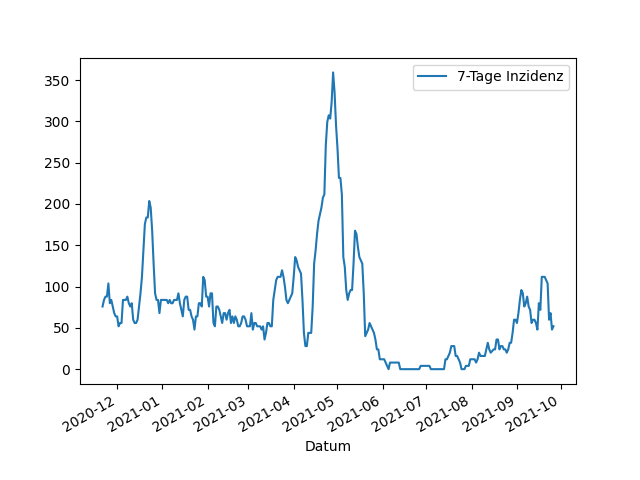
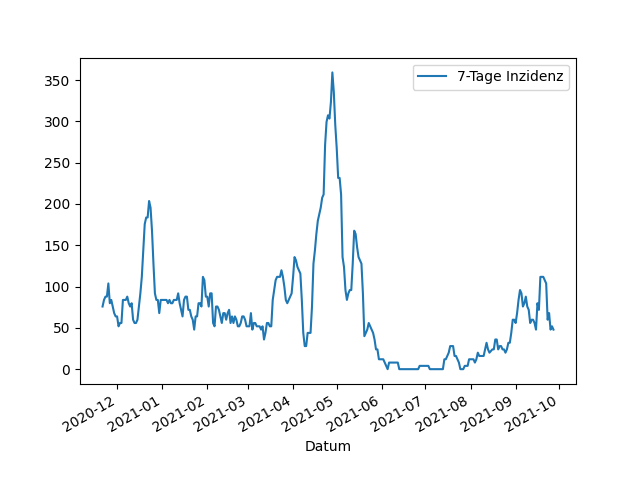
Update images

diff --git a/_includes/aktuelle_inzidenz.md b/_includes/aktuelle_inzidenz.md
@@ -1,1 +1,1 @@
-51,9
+47,9
